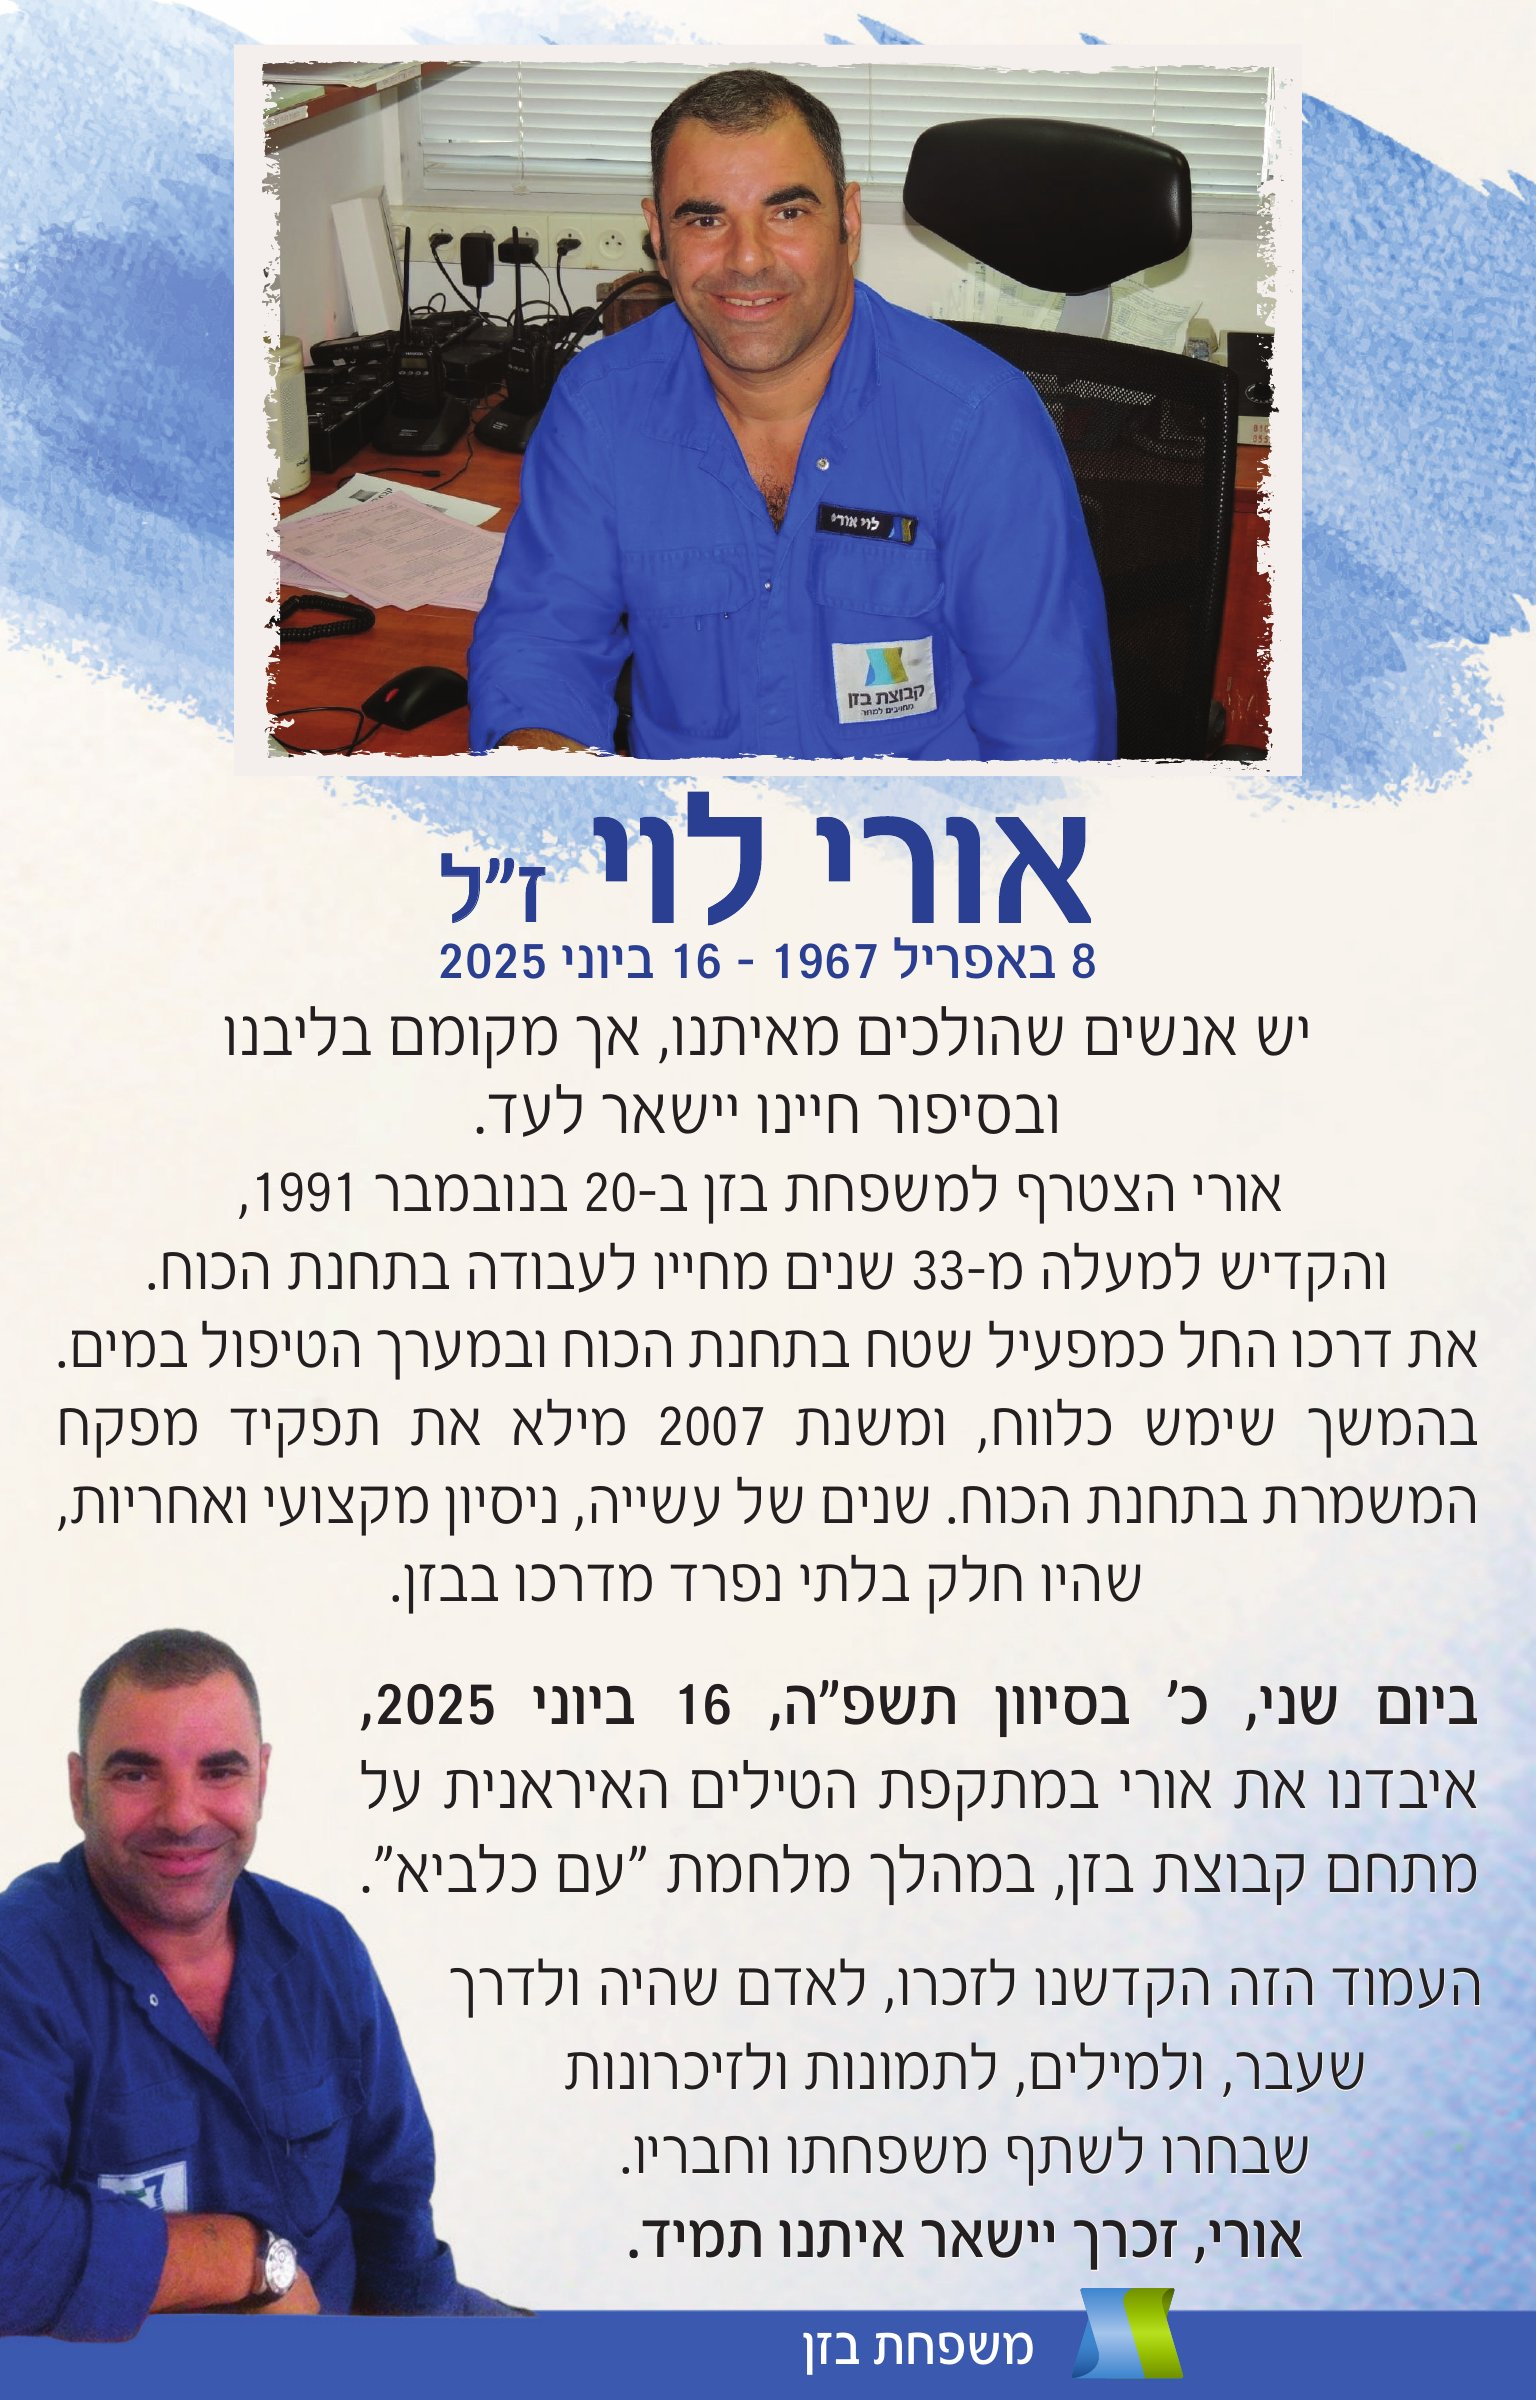
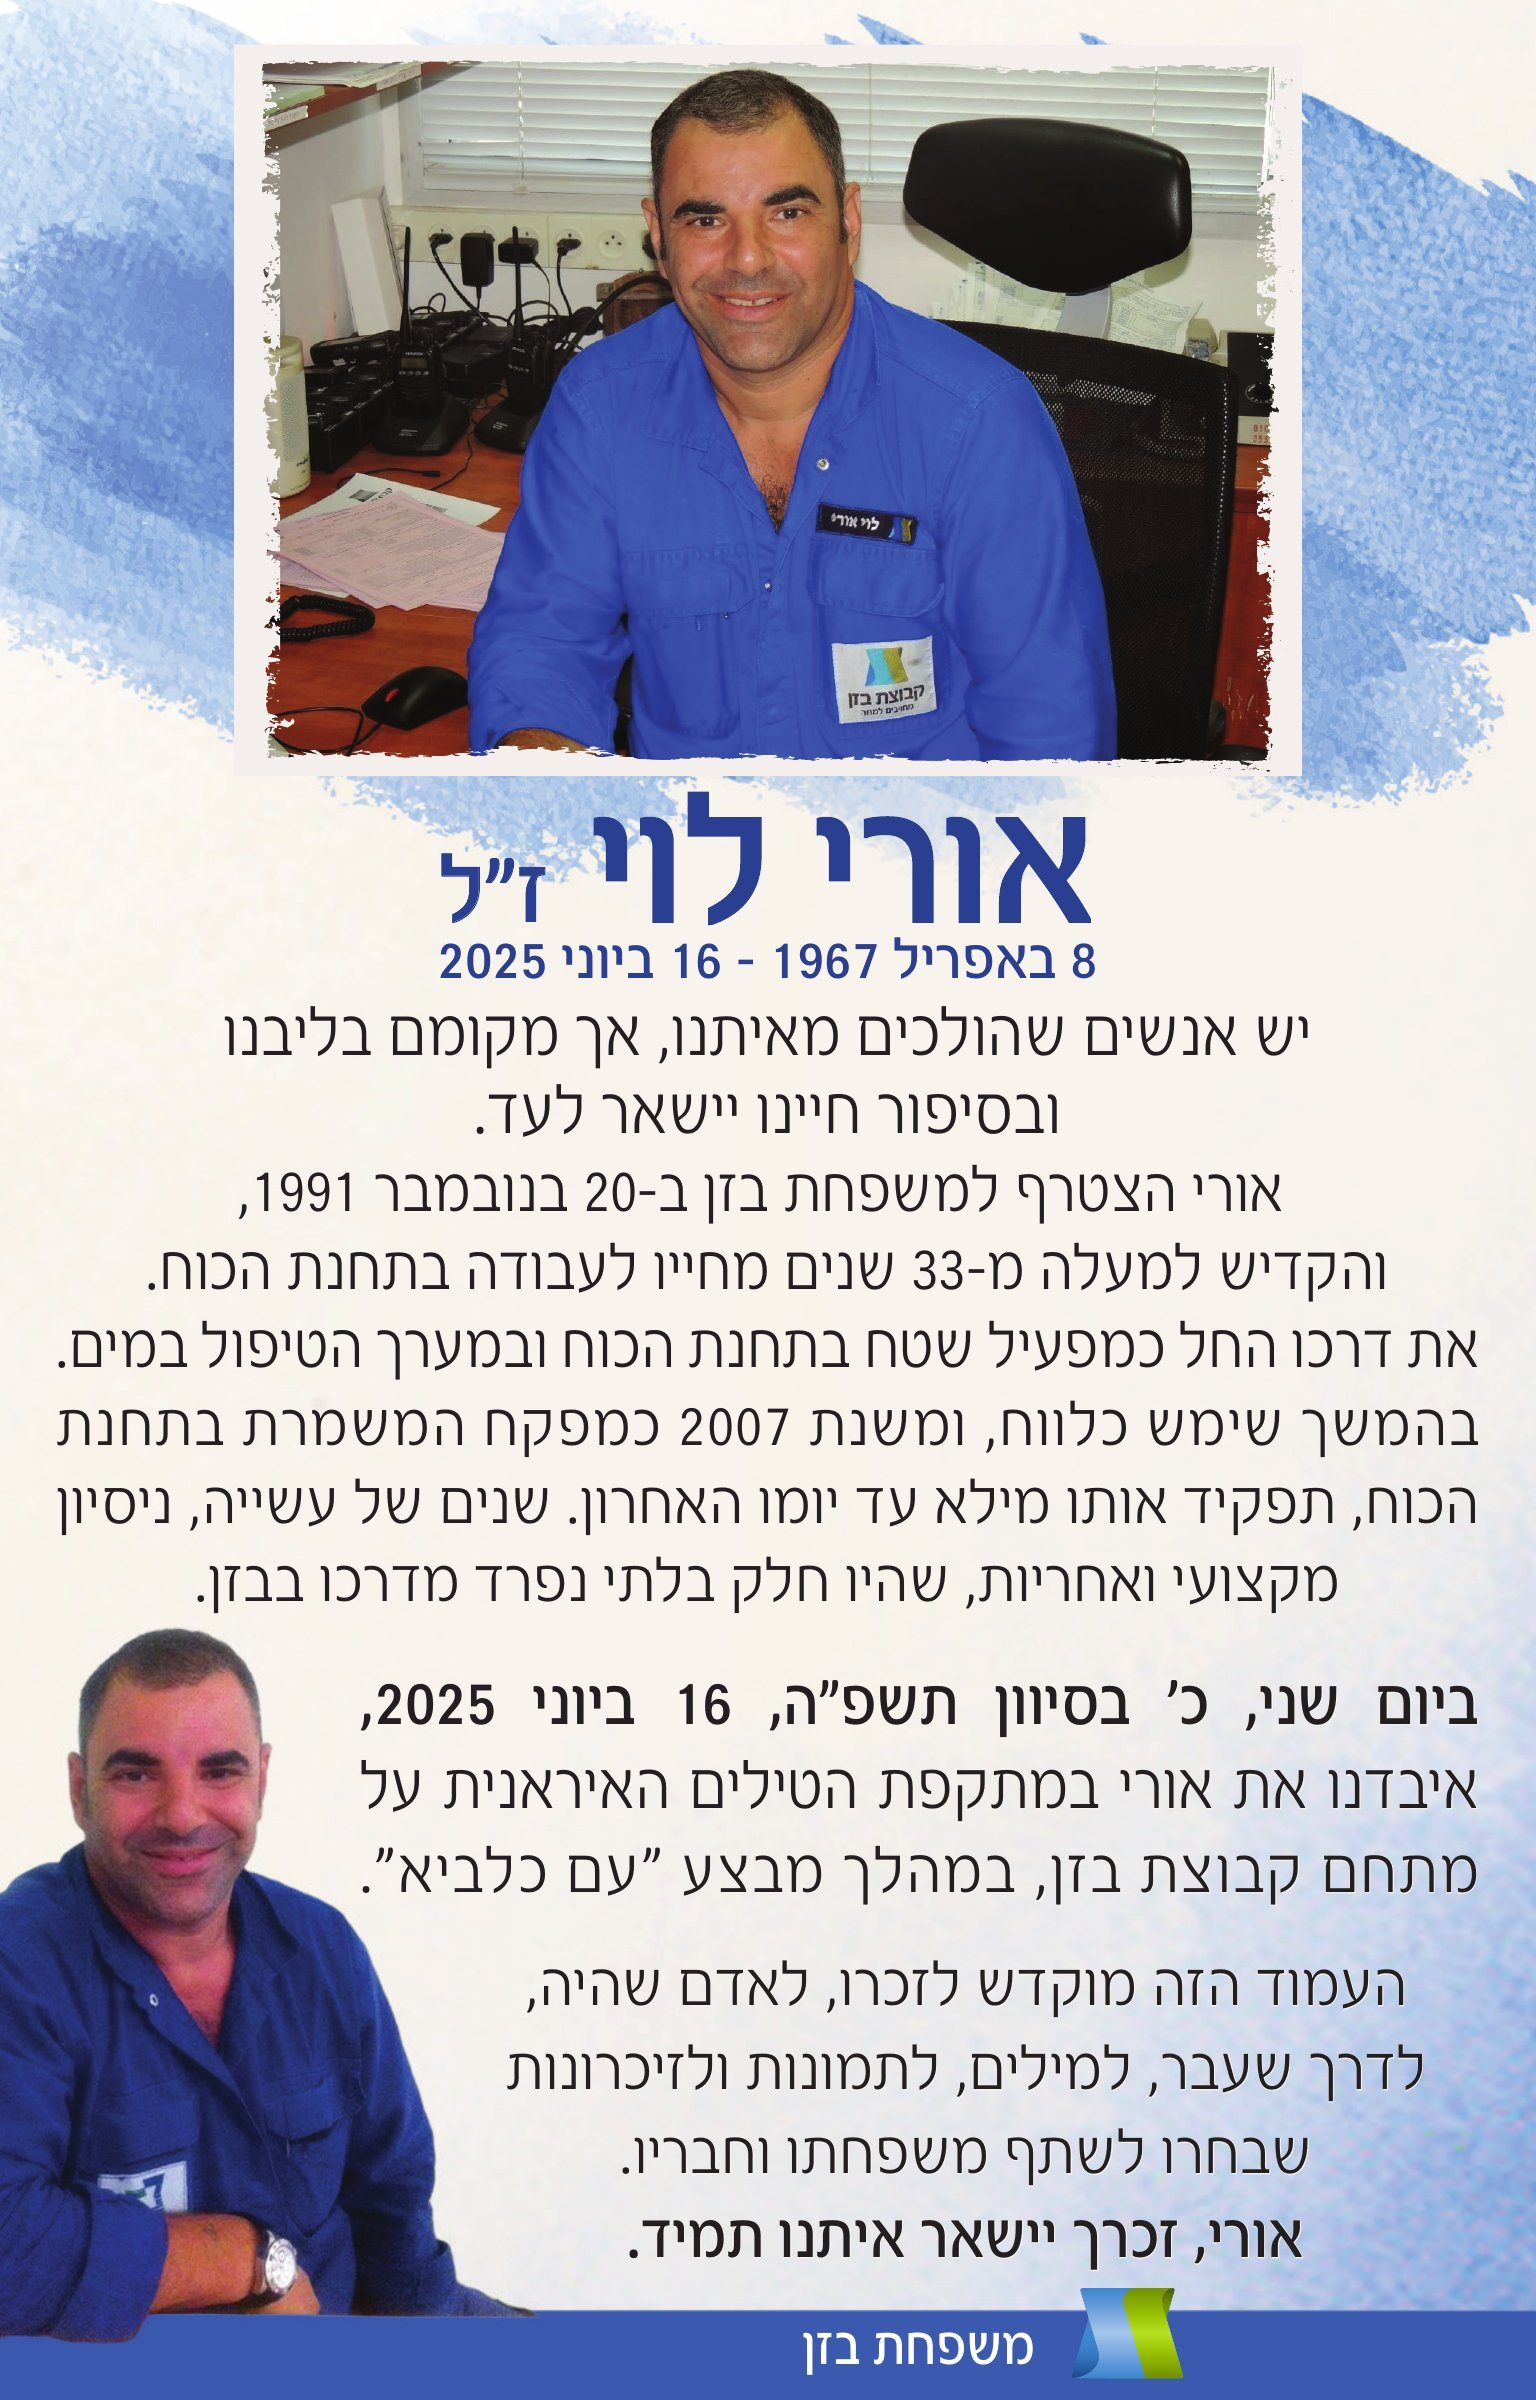
Tovit's corrections: page-1 texts, 'הקירבה', 'מבצע עם כלביא', and gentle blur on screens in work photos
Claude-Session: https://claude.ai/code/session_01JZjvfQDUKGme1rMf5LqHBs

Changed region(s): [[0.0312, 0.5625, 0.9375, 0.6875], [0.25, 0.75, 0.9688, 0.875]]

diff --git a/daniel/index.html b/daniel/index.html
@@ -20,19 +20,19 @@ main img{display:block;width:100%;height:auto}
 </head>
 <body>
 <main>
-<img src="p/01.jpg?v=1022b" width="1536" height="2400" alt="דניאל אברהם ז״ל, עמוד 1">
-<img src="p/02.jpg?v=1022b" width="1536" height="2400" loading="lazy" alt="דניאל אברהם ז״ל, עמוד 2">
-<img src="p/03.jpg?v=1022b" width="1536" height="2400" loading="lazy" alt="דניאל אברהם ז״ל, עמוד 3">
-<img src="p/04.jpg?v=1022b" width="1536" height="2400" loading="lazy" alt="דניאל אברהם ז״ל, עמוד 4">
-<img src="p/05.jpg?v=1022b" width="1536" height="2400" loading="lazy" alt="דניאל אברהם ז״ל, עמוד 5">
-<img src="p/06.jpg?v=1022b" width="1536" height="2400" loading="lazy" alt="דניאל אברהם ז״ל, עמוד 6">
-<img src="p/07.jpg?v=1022b" width="1536" height="2400" loading="lazy" alt="דניאל אברהם ז״ל, עמוד 7">
-<img src="p/08.jpg?v=1022b" width="1536" height="2400" loading="lazy" alt="דניאל אברהם ז״ל, עמוד 8">
-<img src="p/09.jpg?v=1022b" width="1536" height="2400" loading="lazy" alt="דניאל אברהם ז״ל, עמוד 9">
-<img src="p/10.jpg?v=1022b" width="1536" height="2400" loading="lazy" alt="דניאל אברהם ז״ל, עמוד 10">
-<img src="p/11.jpg?v=1022b" width="1536" height="2400" loading="lazy" alt="דניאל אברהם ז״ל, עמוד 11">
-<img src="p/12.jpg?v=1022b" width="1536" height="2400" loading="lazy" alt="דניאל אברהם ז״ל, עמוד 12">
-<img src="p/13.jpg?v=1022b" width="1536" height="2400" loading="lazy" alt="דניאל אברהם ז״ל, עמוד 13">
+<img src="p/01.jpg?v=1101" width="1536" height="2400" alt="דניאל אברהם ז״ל, עמוד 1">
+<img src="p/02.jpg?v=1101" width="1536" height="2400" loading="lazy" alt="דניאל אברהם ז״ל, עמוד 2">
+<img src="p/03.jpg?v=1101" width="1536" height="2400" loading="lazy" alt="דניאל אברהם ז״ל, עמוד 3">
+<img src="p/04.jpg?v=1101" width="1536" height="2400" loading="lazy" alt="דניאל אברהם ז״ל, עמוד 4">
+<img src="p/05.jpg?v=1101" width="1536" height="2400" loading="lazy" alt="דניאל אברהם ז״ל, עמוד 5">
+<img src="p/06.jpg?v=1101" width="1536" height="2400" loading="lazy" alt="דניאל אברהם ז״ל, עמוד 6">
+<img src="p/07.jpg?v=1101" width="1536" height="2400" loading="lazy" alt="דניאל אברהם ז״ל, עמוד 7">
+<img src="p/08.jpg?v=1101" width="1536" height="2400" loading="lazy" alt="דניאל אברהם ז״ל, עמוד 8">
+<img src="p/09.jpg?v=1101" width="1536" height="2400" loading="lazy" alt="דניאל אברהם ז״ל, עמוד 9">
+<img src="p/10.jpg?v=1101" width="1536" height="2400" loading="lazy" alt="דניאל אברהם ז״ל, עמוד 10">
+<img src="p/11.jpg?v=1101" width="1536" height="2400" loading="lazy" alt="דניאל אברהם ז״ל, עמוד 11">
+<img src="p/12.jpg?v=1101" width="1536" height="2400" loading="lazy" alt="דניאל אברהם ז״ל, עמוד 12">
+<img src="p/13.jpg?v=1101" width="1536" height="2400" loading="lazy" alt="דניאל אברהם ז״ל, עמוד 13">
 </main>
 </body>
 </html>

diff --git a/igor/index.html b/igor/index.html
@@ -20,11 +20,11 @@ main img{display:block;width:100%;height:auto}
 </head>
 <body>
 <main>
-<img src="p/01.jpg?v=1022b" width="1536" height="2400" alt="איגור פרדקין ז״ל, עמוד 1">
-<img src="p/02.jpg?v=1022b" width="1536" height="2400" loading="lazy" alt="איגור פרדקין ז״ל, עמוד 2">
-<img src="p/03.jpg?v=1022b" width="1536" height="2400" loading="lazy" alt="איגור פרדקין ז״ל, עמוד 3">
-<img src="p/04.jpg?v=1022b" width="1536" height="2400" loading="lazy" alt="איגור פרדקין ז״ל, עמוד 4">
-<img src="p/05.jpg?v=1022b" width="1536" height="2400" loading="lazy" alt="איגור פרדקין ז״ל, עמוד 5">
+<img src="p/01.jpg?v=1101" width="1536" height="2400" alt="איגור פרדקין ז״ל, עמוד 1">
+<img src="p/02.jpg?v=1101" width="1536" height="2400" loading="lazy" alt="איגור פרדקין ז״ל, עמוד 2">
+<img src="p/03.jpg?v=1101" width="1536" height="2400" loading="lazy" alt="איגור פרדקין ז״ל, עמוד 3">
+<img src="p/04.jpg?v=1101" width="1536" height="2400" loading="lazy" alt="איגור פרדקין ז״ל, עמוד 4">
+<img src="p/05.jpg?v=1101" width="1536" height="2400" loading="lazy" alt="איגור פרדקין ז״ל, עמוד 5">
 </main>
 </body>
 </html>

diff --git a/uri/index.html b/uri/index.html
@@ -20,11 +20,11 @@ main img{display:block;width:100%;height:auto}
 </head>
 <body>
 <main>
-<img src="p/01.jpg?v=1022b" width="1536" height="2400" alt="אורי לוי ז״ל, עמוד 1">
-<img src="p/02.jpg?v=1022b" width="1536" height="2400" loading="lazy" alt="אורי לוי ז״ל, עמוד 2">
-<img src="p/03.jpg?v=1022b" width="1536" height="2400" loading="lazy" alt="אורי לוי ז״ל, עמוד 3">
-<img src="p/04.jpg?v=1022b" width="1536" height="2400" loading="lazy" alt="אורי לוי ז״ל, עמוד 4">
-<img src="p/05.jpg?v=1022b" width="1536" height="2400" loading="lazy" alt="אורי לוי ז״ל, עמוד 5">
+<img src="p/01.jpg?v=1101" width="1536" height="2400" alt="אורי לוי ז״ל, עמוד 1">
+<img src="p/02.jpg?v=1101" width="1536" height="2400" loading="lazy" alt="אורי לוי ז״ל, עמוד 2">
+<img src="p/03.jpg?v=1101" width="1536" height="2400" loading="lazy" alt="אורי לוי ז״ל, עמוד 3">
+<img src="p/04.jpg?v=1101" width="1536" height="2400" loading="lazy" alt="אורי לוי ז״ל, עמוד 4">
+<img src="p/05.jpg?v=1101" width="1536" height="2400" loading="lazy" alt="אורי לוי ז״ל, עמוד 5">
 </main>
 </body>
 </html>
